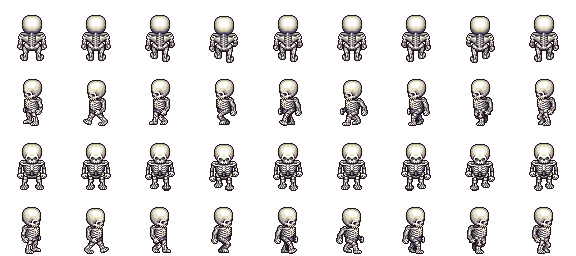
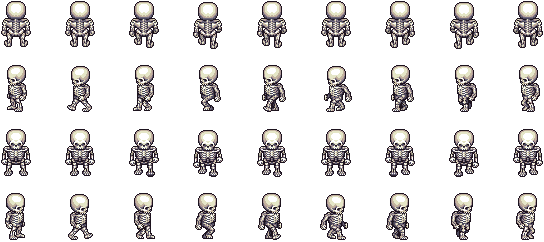
:beers: Added Collision Detection

diff --git a/src/player.js b/src/player.js
@@ -1,22 +1,67 @@
 import GameObject from "./gameObject";
 import Renderable from "./renderable";
+import Box from "./box";
 
 export default class Player extends GameObject {
   constructor(imageSprite, x, y) {
     let SCALE = 1;
-    let baseRenderable = new Renderable(imageSprite, SCALE, 18, 0, 9, 4, 10, true);
+    let XPADDING = 34;
+    let YPADDING = 10;
+
+    let baseRenderable = new Renderable(imageSprite, SCALE, 18, 0, 9, 4, XPADDING, YPADDING, 10, true);
     super(baseRenderable, x, y);
 
     this.facing = 0;
     this.speed = 1;
 
+    this.collisionDetection = null;
+
     this.renderables = [
       baseRenderable,
-      new Renderable(imageSprite, SCALE, 1, 7, 9, 4, 10, true),
-      new Renderable(imageSprite, SCALE, 27, 7, 9, 4, 10, true),
-      new Renderable(imageSprite, SCALE, 19, 7, 9, 4, 10, true),
-      new Renderable(imageSprite, SCALE,  9, 7, 9, 4, 10, true)
-    ]
+      new Renderable(imageSprite, SCALE,  1, 7, 9, 4, XPADDING, YPADDING, 10, true),
+      new Renderable(imageSprite, SCALE, 27, 7, 9, 4, XPADDING, YPADDING, 10, true),
+      new Renderable(imageSprite, SCALE, 19, 7, 9, 4, XPADDING, YPADDING, 10, true),
+      new Renderable(imageSprite, SCALE,  9, 7, 9, 4, XPADDING, YPADDING, 10, true)
+    ];
+    this.hitbox = new Box(this.position, this.renderModel.frameWidth, this.renderModel.frameHeight);
+  }
+
+  update() {
+    if (this.collisionDetection != null) {
+      //check for Collision before updating position
+      let oldX = this.hitbox.position.x;
+      let oldY = this.hitbox.position.y;
+
+      //check if the hitbox of the next frame collides with something when only the xVelocity is added to the hitbox
+      this.hitbox.position.x += this.velocity.x;
+      let isCollidingX = this.collisionDetection.isColliding(this.hitbox);
+
+      if (isCollidingX) {
+        // if it collides reset this the xVelocity
+        this.velocity.x = 0;
+      }
+
+      //reset the hitbox to now check the yAxis
+      this.hitbox.position = {x: oldX,y: oldY};
+
+      //check if the hitbox of the next frame collides with something when only the yVelocity is added to the hitbox
+      this.hitbox.position.y += this.velocity.y;
+      let isCollidingY = this.collisionDetection.isColliding(this.hitbox);
+
+      if (isCollidingY) {
+        // if it collides reset this the yVelocity
+        this.velocity.y = 0;
+      }
+
+      //reset the hitbox and the position because through object reference the position variable changed too
+      this.hitbox.position = {x: oldX,y: oldY};
+      this.position = {x: oldX,y: oldY};
+    }
+
+    super.update();
+
+    // update the hitbox to be according to the new position
+    this.hitbox.position = this.position;
   }
 
   translate(keysDown) {
@@ -25,11 +70,11 @@ export default class Player extends GameObject {
 
     // Change speed and faced direction according to keyboard input
     if (keysDown.includes("KeyW")) {
-      y -= this.speed;
+      y -= this.speed*0.8;
       this.facing = 1;
     }
     if (keysDown.includes("KeyS")) {
-      y += this.speed;
+      y += this.speed*0.8;
       this.facing = 3;
     }
     if (keysDown.includes("KeyA")) {
@@ -46,12 +91,13 @@ export default class Player extends GameObject {
       this.renderModel = this.renderables[this.facing];
 
     // Update position
-    this.position.x += x;
-    this.position.y += y;
+    this.velocity.x = x;
+    this.velocity.y = y;
   }
 
   stopMovement() {
     this.facing = 0;
+    this.velocity = { x: 0, y: 0};
     this.renderModel = this.renderables[0];
   }
 }

diff --git a/src/map.js b/src/map.js
@@ -1,5 +1,6 @@
 import GameObject from "./gameObject";
 import Renderable from "./renderable";
+import Box from "./box";
 
 export default class Map extends GameObject {
     constructor(mapJson, mapImage, totalSpriteCount, spriteInRow, spriteInColumn) {
@@ -7,12 +8,21 @@ export default class Map extends GameObject {
 
         this.SCALE = 2;
 
-        this.renderable = new Renderable(mapImage,this.SCALE,0,totalSpriteCount-1,spriteInRow,spriteInColumn,0);
-        this.data = mapJson;
+        this.renderable = new Renderable(mapImage,this.SCALE,0,totalSpriteCount-1,spriteInRow,spriteInColumn);
+        this.tilelayers = mapJson.layers.filter(layer => layer.type === "tilelayer");
+        this.colliders = [];
+        mapJson.layers.forEach(layer => {
+            if (layer.type === "objectgroup") {
+                layer.objects.forEach((obj,index) => {
+                    //if (index != 0) return;
+                    this.colliders.push(new Box({ x: obj.x * this.SCALE, y: obj.y * this.SCALE}, obj.width * this.SCALE, obj.height * this.SCALE));
+                })
+            }
+        });
     }
 
     draw(ctx) {
-        this.data.layers.forEach(layer => {
+        this.tilelayers.forEach(layer => {
             let x = 0;
             let y = 0;
             layer.data.forEach((value, index) => {
@@ -30,7 +40,7 @@ export default class Map extends GameObject {
                 this.renderable.draw(ctx);
                 ctx.restore();
             })
-        })
+        });
     }
 
 }

diff --git a/src/renderable.js b/src/renderable.js
@@ -8,7 +8,9 @@ export default class Renderable {
     frameCount = 0,
     framesx = 1,
     framesy = 1,
-    speed = 1,
+    xPadding = 0,
+    yPadding = 0,
+    speed = 0,
     animation = false
   ) {
     this.img = new Image();
@@ -23,9 +25,13 @@ export default class Renderable {
     this.framesx = framesx;
     this.framesy = framesy;
 
+    // How much pixels are between each frame for both axis
+    this.xPadding = xPadding;
+    this.yPadding = yPadding;
+
     // How wide and high a frame is in the sprite
-    this.frameWidth = this.img.width / this.framesx;
-    this.frameHeight = this.img.height / this.framesy;
+    this.frameWidth = (this.img.width - this.xPadding * (this.framesx - 1)) / this.framesx;
+    this.frameHeight = (this.img.height - this.yPadding * (this.framesy -1)) / this.framesy;
 
     // speed of animation and next timestamp when the frame should be changed
     this.speed = speed;
@@ -46,8 +52,8 @@ export default class Renderable {
     }
 
     // determine which x and y position the frame has in the sprite
-    let posx = (this.frame % this.framesx) * this.frameWidth;
-    let posy = Math.floor(this.frame / this.framesx) * this.frameHeight;
+    let posx = (this.frame % this.framesx) * this.frameWidth + (this.frame % this.framesx) * this.xPadding;
+    let posy = Math.floor(this.frame / this.framesx) * this.frameHeight + Math.floor(this.frame / this.framesx) * this.yPadding;
 
     ctx.drawImage(
       this.img,

diff --git a/src/game.js b/src/game.js
@@ -4,19 +4,24 @@ import Map from "./map";
 import Skeleton from "../images/BODY_skeleton.png";
 import MapImg from "../images/tileset.png";
 import MapData from "../images/testmap.json";
+import CollisionDetection from "./collisionDetection";
 
 export default class Game {
   constructor(gameWidth, gameHeight) {
+    this.DEBUG = false;
     this.width = gameWidth;
     this.height = gameHeight;
 
-    let character = new Player(Skeleton, 100, 100);
-    let npc = [new Player(Skeleton, 100, 100)];
     let map = new Map(MapData, MapImg, 4, 4, 1);
+    this.character = new Player(Skeleton, 100, 100);
+    let npc = [new Player(Skeleton, 100, 100)];
 
-    this.gameObjects = [map, ...npc, character];
+    this.collisionDetection = new CollisionDetection([...map.colliders]);
+    this.character.collisionDetection = this.collisionDetection;
 
-    this.input = new InputHandler(character, this);
+    this.gameObjects = [map, ...npc, this.character];
+
+    this.input = new InputHandler(this.character, this);
   }
 
   update(timePassed) {
@@ -27,5 +32,12 @@ export default class Game {
 
   draw(ctx) {
     this.gameObjects.forEach(object => object.draw(ctx));
+
+    if (this.DEBUG) {
+      this.collisionDetection.colliders.forEach(collider => {
+        collider.draw(ctx);
+      });
+      this.character.hitbox.draw(ctx);
+    }
   }
 }

diff --git a/src/collisionDetection.js b/src/collisionDetection.js
@@ -1,0 +1,27 @@
+import Box from "./box";
+
+export default class collisionDetection {
+    constructor(colliders) {
+        this.colliders = colliders;
+    }
+
+    addCollider(obj) {
+        if (obj instanceof Box) {
+            this.colliders.push(obj);
+        }
+    }
+
+    isColliding(hitBox) {
+        let isColliding = false;
+        this.colliders.forEach(collider => {
+            if (hitBox.position.x <= collider.position.x + collider.size.width
+             && hitBox.position.x + hitBox.size.width >= collider.position.x
+             && hitBox.position.y <= collider.position.y + collider.size.height
+             && hitBox.position.y + hitBox.size.height >= collider.position.y) {
+                isColliding = true;
+            }
+        });
+
+        return isColliding
+    }
+}

diff --git a/src/gameObject.js b/src/gameObject.js
@@ -7,13 +7,13 @@ export default class GameObject {
     this.childrenGameObjs = [];
   }
 
-  update(ctx) {
+  update() {
     // update the position of the obj and for all its children objects attached to it
     this.position.x += this.velocity.x;
     this.position.y += this.velocity.y;
 
     this.childrenGameObjs.forEach(child => {
-      child.update(ctx);
+      child.update();
     });
   }
 

diff --git a/src/box.js b/src/box.js
@@ -1,0 +1,11 @@
+export default class Box {
+    constructor(position, width, height) {
+        this.position = position;
+        this.size = { width, height };
+    }
+
+    draw (ctx) {
+        ctx.strokeStyle = "red";
+        ctx.strokeRect(this.position.x, this.position.y, this.size.width, this.size.height);
+    }
+}
